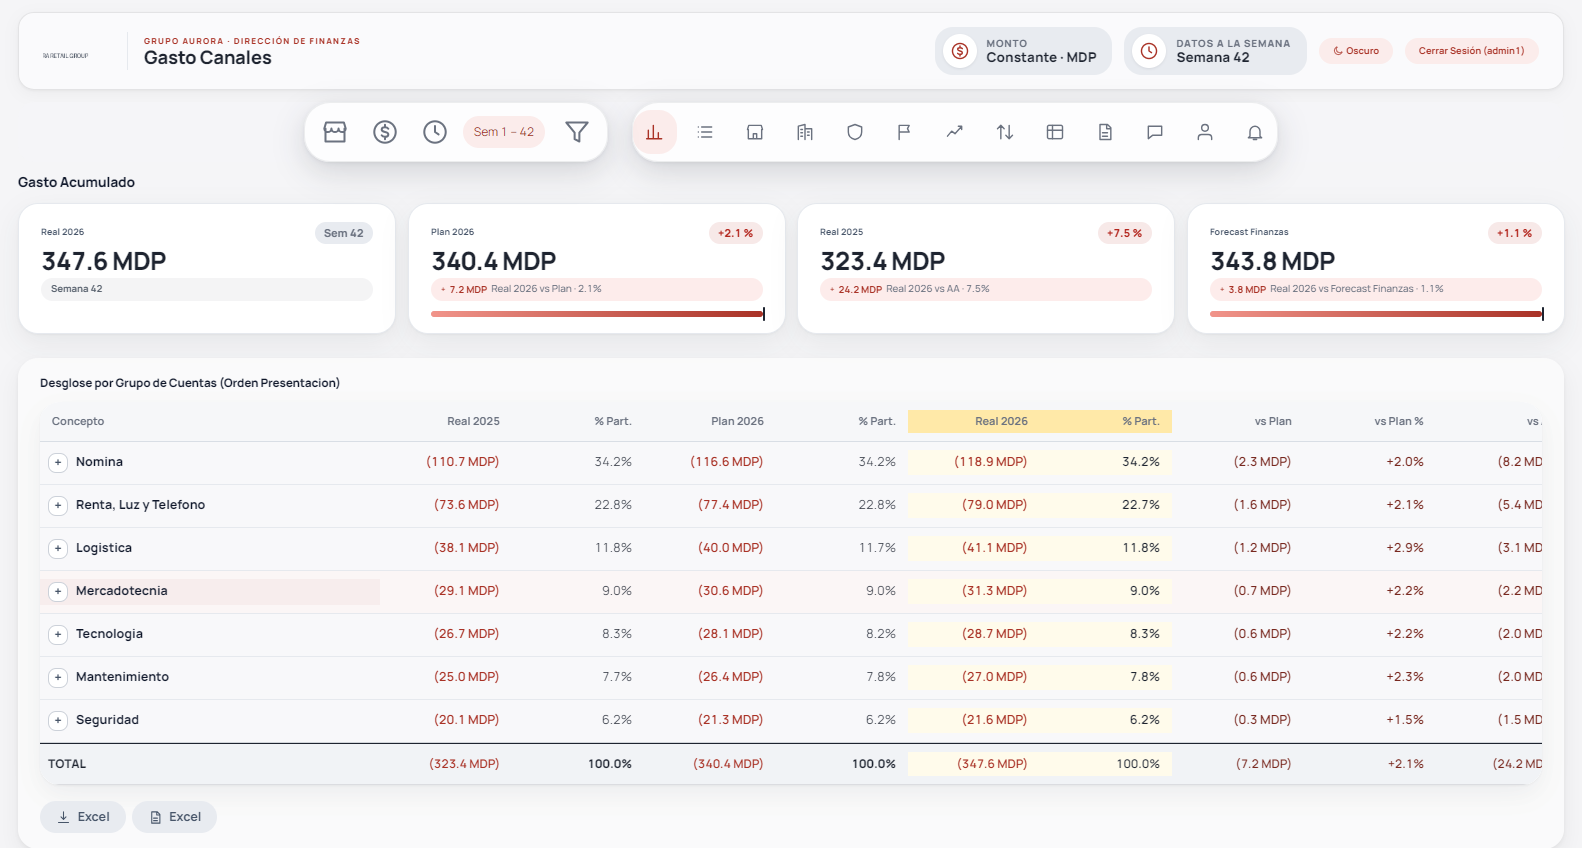
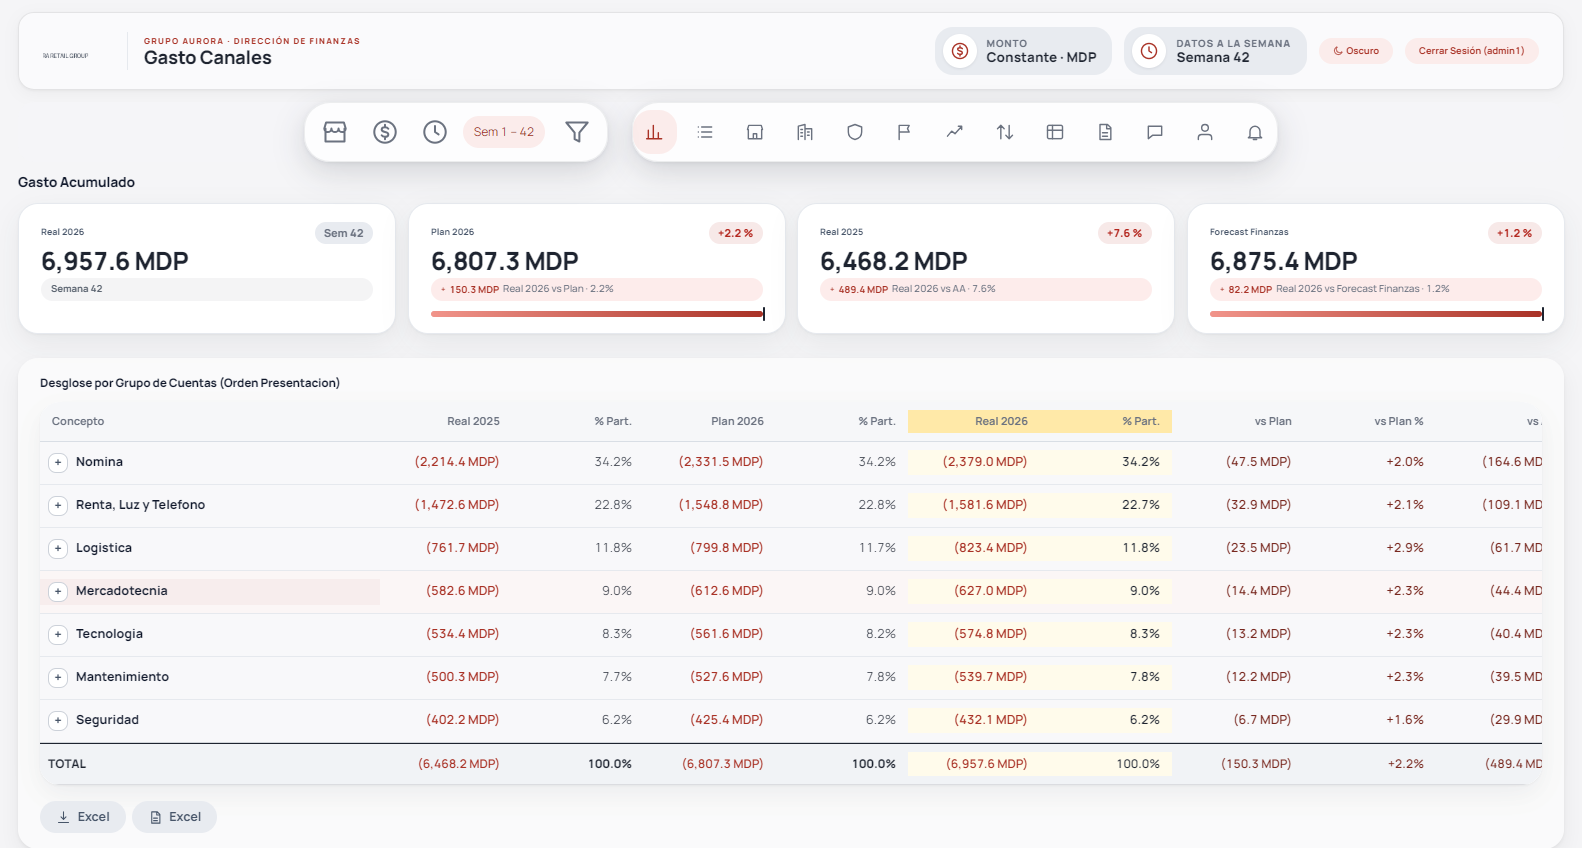
Add synthetic knowledge file, injected spikes and shareable GIFs

diff --git a/share/make_share_gifs.py b/share/make_share_gifs.py
@@ -1,0 +1,38 @@
+from pathlib import Path
+
+from PIL import Image
+
+ROOT = Path(__file__).resolve().parent.parent
+DOCS = ROOT / "docs"
+OUT = ROOT / "share"
+
+SETS = {
+    "01-weekly-spend-dashboard.gif": (DOCS / "dash-app" / "media", ["01-login", "02-after-login", "03-resumen", "04-cuenta", "05-pdv", "06-ceco", "08-cierres", "09-tiempo", "12-cashi", "12b-cashi-1", "12c-cashi-2", "13-alertas", "15-dark-theme"], 2600),
+    "02-opex-control-dashboard.gif": (DOCS / "opex-control" / "media", ["01-login", "02-summary", "03-hierarchy-division", "05-hierarchy-zone", "07-alerts", "08-alert-series", "09-timeline", "10-pivot", "11-assistant"], 2600),
+    "03-payly-support-agent.gif": (DOCS / "support-agent" / "media", ["real-01", "real-02", "real-03", "real-04"], 4200),
+    "04-paper-trading.gif": (DOCS / "media", ["paper-1", "paper-2", "paper-3"], 3500),
+    "05-portfolio-site-tour.gif": (DOCS / "media", ["site-landing", "site-dash-app", "site-opex", "site-support-agent", "site-paper-trading", "site-quant-lab", "site-chatbot"], 2400),
+}
+WIDTH = 1100
+
+
+def build(name, folder, stems, ms):
+    frames = []
+    for s in stems:
+        im = Image.open(folder / f"{s}.png").convert("RGB")
+        h = int(WIDTH * im.height / im.width)
+        frames.append(im.resize((WIDTH, h), Image.LANCZOS))
+    hmax = max(f.height for f in frames)
+    frames = [f if f.height == hmax else f.resize((WIDTH, hmax)) for f in frames]
+    pal = [f.quantize(colors=128, method=Image.MEDIANCUT) for f in frames]
+    path = OUT / name
+    if len(pal) == 1:
+        frames[0].save(path.with_suffix(".png"))
+        pal[0].save(path, save_all=True, duration=ms)
+    else:
+        pal[0].save(path, save_all=True, append_images=pal[1:], duration=ms, loop=0, optimize=True, disposal=2)
+    print(name, f"{path.stat().st_size / 1048576:.1f} MB", len(frames), "frames")
+
+
+for n, (folder, stems, ms) in SETS.items():
+    build(n, folder, stems, ms)

diff --git a/dash-app/synthetic/make_consolidado.py b/dash-app/synthetic/make_consolidado.py
@@ -64,7 +64,7 @@ def build():
     over = set(rng.choice(cecos["ID_CENTRO_COSTOS"], 10, replace=False))
     for c in cecos.itertuples():
         for a in cuentas.itertuples():
-            base = a.base * c.size * 1000
+            base = a.base * c.size * 20000
             season = 1 + 0.08 * np.sin(2 * np.pi * (weeks - 8) / 52) + np.where(weeks >= 44, 0.1, 0.0)
             bias = rng.normal(1, 0.06)
             plan = base * season * rng.normal(1, 0.01, 53)
@@ -78,6 +78,18 @@ def build():
                                             "monto_loc": np.round(vals[keep], 2), "MES": month[keep],
                                             "ID_CENTRO_COSTOS": c.ID_CENTRO_COSTOS, "ID_CONCEPTO_CUENTA_NIV3": a.ID_CONCEPTO_CUENTA_NIV3}))
     df = pd.concat(frames, ignore_index=True)
+    spikes = []
+    idx_r26 = df.index[df["Serie"] == "R26"]
+    keys = df.loc[idx_r26, ["ID_CENTRO_COSTOS", "ID_CONCEPTO_CUENTA_NIV3"]].drop_duplicates().reset_index(drop=True)
+    pick = keys.sample(40, random_state=5)
+    for k, row in enumerate(pick.itertuples()):
+        week = int(rng.integers(36, 43)) if k < 15 else int(rng.integers(14, 36))
+        m = (df["Serie"] == "R26") & (df["ID_CENTRO_COSTOS"] == row.ID_CENTRO_COSTOS) & (df["ID_CONCEPTO_CUENTA_NIV3"] == row.ID_CONCEPTO_CUENTA_NIV3) & (df["sem"] == week)
+        factor = float(rng.uniform(4.0, 7.0))
+        df.loc[m, ["monto_cons", "monto_loc"]] = (df.loc[m, ["monto_cons", "monto_loc"]] * factor).round(2).values
+        spikes.append((row.ID_CENTRO_COSTOS, row.ID_CONCEPTO_CUENTA_NIV3, week, round(factor, 2)))
+    (ROOT / "datos").mkdir(exist_ok=True)
+    (ROOT / "datos" / "picos_inyectados.json").write_text(json.dumps(spikes), encoding="utf-8")
     ce = cecos.drop(columns="size")
     cu = cuentas.drop(columns=["base", "cat_Contraloria", "cat_Contraloria_6"])
     df = df.merge(cu, on="ID_CONCEPTO_CUENTA_NIV3").merge(ce, on="ID_CENTRO_COSTOS")

diff --git a/dash-app/rag/monitoreo/__main__.py b/dash-app/rag/monitoreo/__main__.py
@@ -26,6 +26,11 @@ from .modelo import ModeloNoEntrenado, backtest, causas, entrenar, psi, puntuar,
 CANALES = ["Fisico", "Digital"]
 
 
+def _canales_disponibles():
+    from . import datos as _d
+    return CANALES if (_d.AGGS / "digitales.duckdb").exists() else ["Fisico"]
+
+
 def _preparar(con, canal, hasta):
     panel = datos.leer_panel(con, canal, hasta)
     return panel, construir(panel)
@@ -36,7 +41,7 @@ def cmd_train(a) -> int:
     fin = a.fin or smr
     con = datos.conectar()
     modelos, paneles, bt = {}, [], {}
-    for canal in CANALES:
+    for canal in _canales_disponibles():
         panel, feat = _preparar(con, canal, fin)
         if panel.is_empty():
             print(f"[{canal}] sin datos: se omite")
@@ -72,7 +77,7 @@ def cmd_score(a) -> int:
     con = datos.conectar()
     filas, estado = [], {"version": v, "fecha_scoring": dt.datetime.now().isoformat(timespec="seconds"),
                          "sem_max_real": smr, "entrenado_hasta": m["fin_entrenamiento"], "canales": {}}
-    for canal in CANALES:
+    for canal in _canales_disponibles():
         try:
             obj = registro.cargar(canal, v)
         except ModeloNoEntrenado:

diff --git a/dash-app/README.md b/dash-app/README.md
@@ -12,11 +12,12 @@ This folder is the source code of the application plus a synthetic-data generato
 pip install -r requirements.txt dash-bootstrap-components waitress scikit-learn
 python synthetic/make_consolidado.py          # inputs: datos/*.parquet, Excel catalogs, demo users
 python codigo/build_data.py --rebuild --actualizar-catalogos --solo semanal   # builds aggs/ and dashboard.duckdb (~10 s)
+python -m rag.monitoreo train --promover && python -m rag.monitoreo score   # anomaly model for the Alerts tab
 python dash_app/app.py                        # http://127.0.0.1:8050  (admin1 / admin123, analista1 / analista123)
 python synthetic/capture_dash.py              # re-records the tour with headless Chrome
 ```
 
-The synthetic set has 191 locations, 21 accounts and 53 weeks (about 590,000 fact rows) with actuals up to week 42. Tabs that need other private inputs (digital channel, expansion closings workbook, labelled evaluation data) start empty or are skipped.
+The synthetic set has 191 locations, 21 accounts and 53 weeks (about 590,000 fact rows) with actuals up to week 42. The generator also injects 40 cost spikes so the alerts have something to find, and `rag/conocimiento/CONOCIMIENTO_CASHI.md` is a synthetic knowledge file for the assistant. To fill the Alerts tab, train and score the monitor once: `python -m rag.monitoreo train --promover && python -m rag.monitoreo score`. Tabs that need other private inputs (digital channel, expansion closings workbook, labelled evaluation data) start empty or are skipped.
 
 ## What is inside
 
@@ -40,5 +41,5 @@ The synthetic set has 191 locations, 21 accounts and 53 weeks (about 590,000 fac
 
 ## What was left out
 
-Real data and catalogs, the company logo and background image (replaced by generated placeholders), the PowerPoint and Excel templates, change logs and design notes that contain real figures and people, and the hand-labelled evaluation files built from real user questions. Some modules that depend on those templates (`codigo/ppt_semanal`) are included for reference but cannot run without them.
+Real data and catalogs, the company logo and background image (replaced by generated placeholders), the PowerPoint and Excel templates, change logs and design notes that contain real figures and people, and the hand-labelled evaluation files built from real user questions (the knowledge file is replaced by a synthetic one). Some modules that depend on those templates (`codigo/ppt_semanal`) are included for reference but cannot run without them.
 

diff --git a/dash-app/rag/conocimiento/CONOCIMIENTO_CASHI.md b/dash-app/rag/conocimiento/CONOCIMIENTO_CASHI.md
@@ -1,0 +1,37 @@
+# Conocimiento de Cashi: estructura, gastos y tipos de consulta
+
+Guia para Cashi sobre la estructura del tablero de gasto de la red fisica de Aurora Retail Group, que dicen los datos y como preguntar. Datos sinteticos para demostracion; semana real cerrada: 42.
+
+## Series y semanas
+
+- **R26** = Real 2026, **P26** = Plan 2026, **R25** = Real 2025 (anio anterior).
+- **Sobregasto / variacion vs Plan** = Real 2026 menos Plan 2026. Positivo = exceso (desfavorable), negativo = ahorro.
+- **Variacion vs anio anterior** = Real 2026 menos Real 2025, a las mismas semanas.
+- El anio fiscal tiene 53 semanas; los trimestres son Q1 (1-13), Q2 (14-26), Q3 (27-39) y Q4 (40-53).
+- El Real llega hasta la semana de corte; despues solo existe el Plan y el Forecast.
+
+## Estructura territorial
+
+Agrupa 1 (Canales Fisicos) > Division > Territorio > Zona > Region > PDC (punto de venta) > CECO.
+
+- **Division Norte**: Baja California, Bajio, Chihuahua, Jalisco.
+- **Division Centro**: Metro Norte, Metro Sur, Queretaro.
+- **Division Sur**: Chiapas, Oaxaca, Veracruz, Yucatan.
+- **Corporativo**: Territorio Corporativo.
+
+## Estructura de cuentas
+
+Grupo de Cuentas > Cuentas. Grupos: Nomina, Renta Luz y Telefono, Mantenimiento, Logistica, Mercadotecnia, Tecnologia y Seguridad.
+
+## Tipos de consulta
+
+- **Comparar**: "Real 2026 vs Real 2025", "Real 2026 vs Plan 2026", "variacion de la semana 30 vs 31".
+- **Rankings**: "Top 10 CECOs con mayor sobregasto", "Pareto de gasto", "top variaciones vs Plan".
+- **Alertas**: "senales de sobregasto", "que semanas fueron atipicas".
+- **Cuentas**: "gasto de nomina por division", "gasto de logistica por semana".
+- **Territorio**: "gasto de la division norte", "gasto del territorio Bajio".
+
+## Reglas de lectura
+
+- Las cifras se muestran en millones de pesos (MDP) en Monto Constante; tambien existe Monto Local.
+- Un CECO atipico es el que se sale de su historia propia con un z-score robusto y una desviacion material; un modelo no supervisado ofrece una segunda opinion.

diff --git a/share/README.md b/share/README.md
@@ -1,0 +1,33 @@
+# Shareable demos
+
+Ready-to-share animated GIFs of every project. Each is under 1 MB, 1100 px wide and loops forever, so they work in a README, a Slack message, an email, a LinkedIn post or a slide.
+
+| File | What it shows |
+|------|---------------|
+| [`01-weekly-spend-dashboard.gif`](01-weekly-spend-dashboard.gif) | The original Dash + DuckDB spend dashboard running on synthetic data: sign-in, summary, account hierarchy, points of sale, cost centers, closings, time view, the Cashi assistant, alerts and dark theme |
+| [`02-opex-control-dashboard.gif`](02-opex-control-dashboard.gif) | The rebuilt Opex Control dashboard: summary, hierarchy drill-down, overspend alerts, anomaly series, heat map, pivot and assistant |
+| [`03-payly-support-agent.gif`](03-payly-support-agent.gif) | The LLM support agent answering with a real local model: order lookup, policy, escalation and cross-customer protection |
+| [`04-paper-trading.gif`](04-paper-trading.gif) | The paper-trading simulation: capital vs SPY, open positions and the trade ledger |
+| [`05-portfolio-site-tour.gif`](05-portfolio-site-tour.gif) | A pass over the published portfolio site |
+
+Live site: https://yoyo1505.github.io/My_Portfolio/
+
+## Embed
+
+Markdown (works in GitHub READMEs):
+
+```markdown
+![Spend dashboard](https://raw.githubusercontent.com/Yoyo1505/My_Portfolio/main/share/01-weekly-spend-dashboard.gif)
+```
+
+HTML:
+
+```html
+<img src="https://raw.githubusercontent.com/Yoyo1505/My_Portfolio/main/share/01-weekly-spend-dashboard.gif" width="720" alt="Spend dashboard demo">
+```
+
+For chat and email, download the file from the repository (Raw > Save as) and attach it.
+
+## Rebuild
+
+`python share/make_share_gifs.py` rebuilds these files from the screenshots in `docs/`. The screenshots themselves come from `dash-app/synthetic/capture_dash.py`, `opex-control/scripts/capture.py` and `support-agent/scripts/capture_agent.py`.

diff --git a/README.md b/README.md
@@ -4,6 +4,8 @@ Applied finance and AI projects, each with a live browser demo, its source code,
 
 ![Opex Control tour](docs/opex-control/media/tour.gif)
 
+Shareable GIFs of every project (under 1 MB each) are in [`share/`](share/README.md).
+
 ## Tour of the published site
 
 ![Site tour](docs/media/site-tour.gif)
